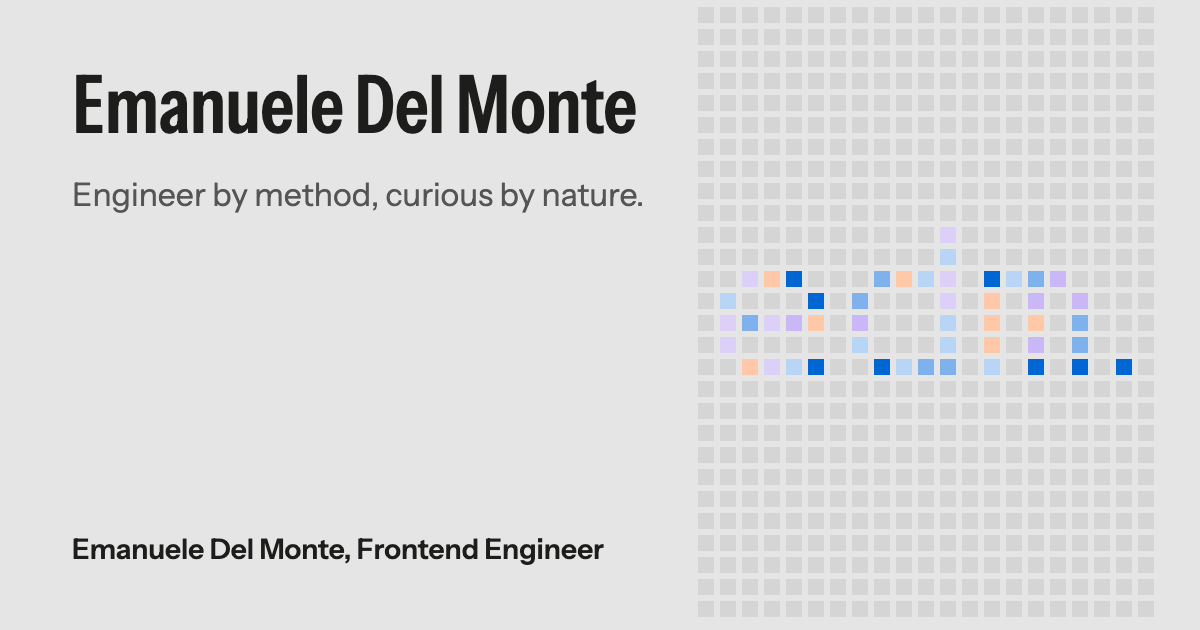
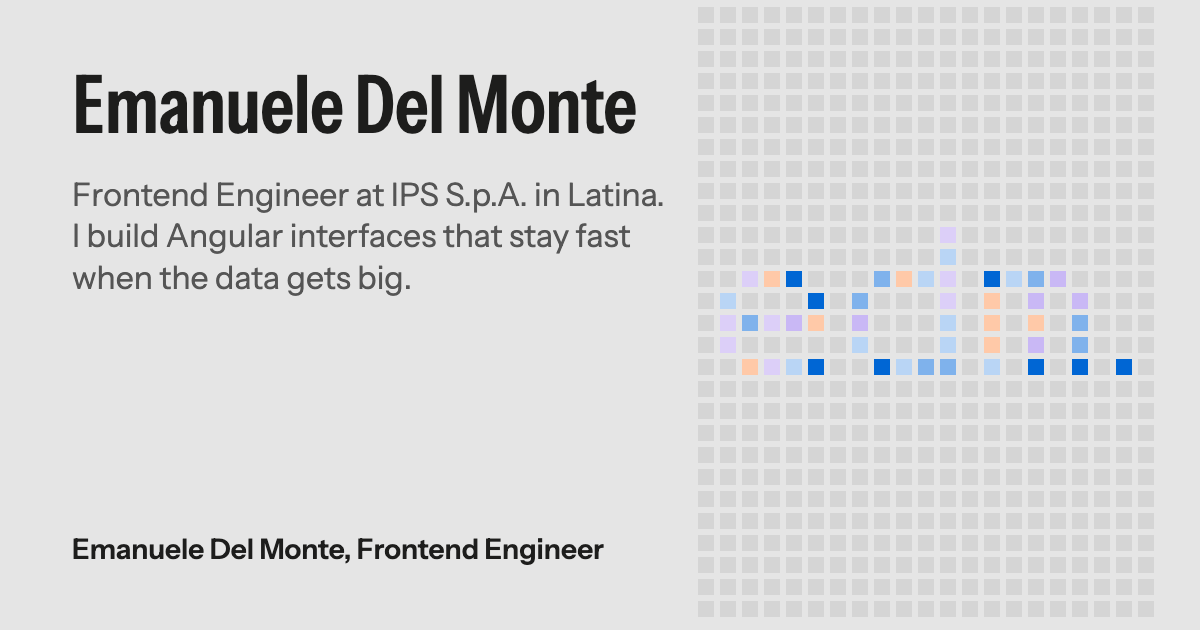
feat: the hero's title is the name, its subtitle the role and the positioning (#304)
The copy part of #304, without the pixel portrait (set aside on request): the
h1 shows the name, the lede says role, company and what I build. The hero stays
centred and text only; llms.txt and the home's OG images follow the lede.

Changed region(s): [[0.0617, 0.2714, 0.555, 0.3921], [0.0617, 0.4222, 0.3392, 0.4825]]

diff --git a/src/app/content/content.en.ts b/src/app/content/content.en.ts
@@ -19,8 +19,7 @@ export const CONTENT_EN: SiteContent = {
       'I build Angular interfaces that stay fast when the data gets big. Frontend Engineer at IPS S.p.A. in Latina, Italy.',
   },
   hero: {
-    headline: 'Engineer by method, curious by nature.',
-    lede: "I'm Emanuele, Frontend Engineer at IPS S.p.A. in Latina. I\u00a0build fast, solid Angular interfaces, and I\u00a0hide an easter egg here and there.",
+    lede: 'Frontend Engineer at IPS S.p.A. in Latina. I\u00a0build Angular interfaces that stay fast when the data gets big.',
   },
   aboutStatement: 'I care about the parts users never see but always feel.',
   about: [

diff --git a/src/app/content/content.it.ts b/src/app/content/content.it.ts
@@ -20,8 +20,7 @@ export const CONTENT_IT: SiteContent = {
       'Sviluppo interfacce Angular che restano veloci anche con molti dati. Frontend Engineer in IPS S.p.A. a Latina.',
   },
   hero: {
-    headline: 'Ingegnere per metodo, curioso per natura.',
-    lede: 'Sono Emanuele, Frontend Engineer in IPS S.p.A., a Latina. Costruisco interfacce Angular veloci e solide, e qua e là nascondo un easter egg.',
+    lede: 'Frontend Engineer in IPS S.p.A. a Latina. Costruisco interfacce Angular che restano veloci anche con molti dati.',
   },
   aboutStatement: 'Curo le parti che nessuno vede ma tutti sentono.',
   about: [

diff --git a/src/app/pages/home/home.ts b/src/app/pages/home/home.ts
@@ -39,7 +39,7 @@ import { Depixelate } from '../../depixelate/depixelate.directive';
   template: `
     <div class="motion" [appMotion]="effects">
     <section class="hero container" aria-labelledby="hero-title">
-      <h1 id="hero-title">{{ content.hero.headline }}</h1>
+      <h1 id="hero-title">{{ content.person.name }}</h1>
       <p class="lede">{{ content.hero.lede }}</p>
       <div class="actions">
         <a class="button button--primary" data-magnetic routerLink="/" fragment="work" i18n="@@home.cta.work">See my work</a>

diff --git a/e2e/pages.spec.ts b/e2e/pages.spec.ts
@@ -128,7 +128,7 @@ test.describe('without JavaScript', () => {
 
   test('content is still there', async ({ page }) => {
     await page.goto('/en/');
-    await expect(page.locator('h1')).toContainText('curious by nature');
+    await expect(page.locator('h1')).toContainText('Emanuele Del Monte');
     await expect(page.getByRole('link', { name: 'ApexFlow', exact: true })).toBeVisible();
   });
 });

diff --git a/src/app/content/content.model.ts b/src/app/content/content.model.ts
@@ -128,7 +128,7 @@ export interface SiteContent {
   person: Person;
   /** The home page's <title> and meta description: what a search result shows. */
   seo: { title: string; description: string };
-  hero: { headline: string; lede: string };
+  hero: { lede: string };
   /** One sentence that opens the About section, in large type. */
   aboutStatement: string;
   /** One string per paragraph. */

diff --git a/docs/superpowers/specs/2026-10-03-portfolio-v2-design.md b/docs/superpowers/specs/2026-10-03-portfolio-v2-design.md
@@ -404,3 +404,4 @@ Per i prossimi sviluppi: le domande aperte (titolo ufficiale, livello delle ling
 | 2026-10-31 | Il moai diventa la mascotte del sito: resta nell'About, la hero è solo testo e centrata. Su desktop è intero a destra del testo dell'About, fissato mentre scorri, e quando l'About esce si rimpicciolisce nell'angolo in basso a destra (140px, a 16px dai bordi, solo il moai prende i clic: il doppio clic fa la bolla anche lì). Su telefono sta centrato sotto il testo. Saluta dopo l'intro, segue il cursore, guarda giù mentre scorri e dopo 20 s fermo si addormenta con delle "z" in pixel. Con reduced motion resta l'immagine statica (spec `2026-10-30-moai-mascot-design.md`, issue #270) | richiesta dell'utente ("come posso rendere il moai la mascotte del sito?") |
 | 2026-10-31 | L'animazione dei pixel dietro la hero section viene ristretta: la maschera radiale è concentrata attorno al blocco di testo centrale sfumando a trasparenza verso i bordi, e il canvas è vincolato alla larghezza del container dell'hero invece di estendersi a 100vw, riducendo sia l'area rasterizzata che il numero di vertici elaborati da WebGL (issue #287) | richiesta dell'utente ("diminuire l’area di animazione pixel che è presente dietro la hero section" e "riduci anche i pixel") |
 | 2026-11-01 | Navbar: il bottone primario "Contact me" / "Scrivimi" sostituisce il link Contatti in barra e nel menu, sempre visibile anche su telefono; icone dei controlli tutte a 16 px (due pixel per cella: 20 e 12 px deformavano i pixel), lingua in peso normale e col codice (`EN`) a ogni larghezza, About tolto dalla barra desktop (resta nel menu su telefono), sottolineato unico a scatti per hover e pagina corrente, riga delle impostazioni del menu allineata al gutter (issue #305) | "modificare la navbar desktop e mobile per essere più in linea con le guidelines e anche inserire la cta", "sì, togli About e metti EN" |
+| 2026-11-07 | Testi della hero: il titolo è il nome ("Emanuele Del Monte", al posto di "Engineer by method, curious by nature."), il sottotitolo il ruolo e il posizionamento ("Frontend Engineer at IPS S.p.A. in Latina. I build Angular interfaces that stay fast when the data gets big."); la hero resta centrata e solo testo. È la parte dei testi della issue #304, senza il ritratto in pixel, annullato | richiesta dell'utente |
